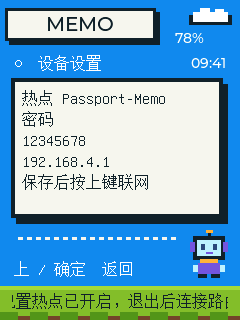
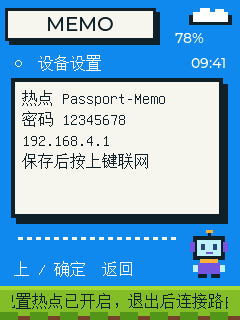
fix: keep setup password on one line

diff --git a/main/memo_ui.c b/main/memo_ui.c
@@ -94,7 +94,7 @@ static void update(lv_timer_t *timer) {
   } else if (v.phase == MEMO_SETTINGS) {
     char settings[320];
     snprintf(settings, sizeof(settings),
-             "热点 Passport-Memo\n密码\n%s\n192.168.4.1\n%s",
+             "热点 Passport-Memo\n密码 %s\n192.168.4.1\n%s",
              v.setup_key[0] ? v.setup_key : "开启中…",
              v.portal ? "保存后按上键联网" : "长按确定开启热点");
     set_text(content, settings);

diff --git a/docs/CHANGELOG.md b/docs/CHANGELOG.md
@@ -2,6 +2,10 @@
 
 # Changelog
 
+## Password row — 2026-09-12
+
+- Place the setup password label and its digits on one line; refresh the illustrated setup screen.
+
 ## Device note actions and clock — 2026-09-12
 
 - Hold DOWN in history for deletion, e-paper sync and return actions. Deletion shows a note excerpt and defaults to Keep; other notes and drafts are retained.

diff --git a/docs/CHANGELOG.zh_CN.md b/docs/CHANGELOG.zh_CN.md
@@ -2,6 +2,10 @@
 
 # 更新记录
 
+## 密码行排版 — 2026-09-12
+
+- 设置页的密码标签与数字合并为一行，更新对应说明图片。
+
 ## 设备记录操作与时钟 — 2026-09-12
 
 - 历史页长按下键打开删除、同步墨水屏和返回菜单；删除确认显示文字摘要，默认保留，其他记录与草稿不受影响。
